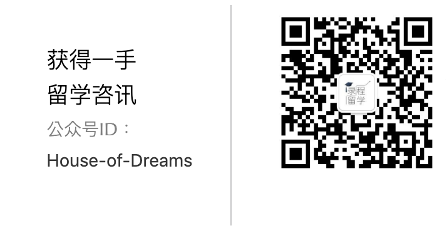
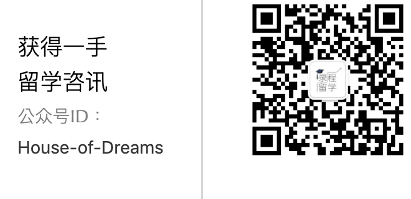
contact fix

diff --git a/contact.html b/contact.html
@@ -69,32 +69,37 @@
           <h2>联系我们</h2>
         </div>
 
-        <div class="row mt-5">
+        <div class="row mt-3">
 
-          <div class="col-lg-4">
+          <div class="col-lg-6 col-md-12 col-sm-12">
             <div class="info">
-              <div class="address">
+              <div class="wechat">
                 <i class="icofont-wechat"></i>
                 <h4>微信账号:</h4>
-                <p>House-of-Dreams</p>
+                <img src="assets/img/journals/wechat.png" alt="wechat account">
               </div>
-
+            </div>
+          </div>
+          
+          <div class="col-lg-6 col-md-12 col-sm-12">
+            <div class="info">
+              <div class="wechat-blog">
+                <i class="icofont-google-talk"></i>
+                <h4>微信公众号:</h4>
+                <div class="contact-img-wrapper">
+                  <img src="assets/img/wechatblog.png" alt="wechat account">
+                </div>
+              </div>
               <div class="email">
                 <i class="icofont-envelope"></i>
                 <h4>邮箱:</h4>
                 <p>luchengliuxue@outlook.com</p>
               </div>
-
-              <div class="phone">
-                <i class="icofont-google-talk"></i>
-                <h4>微信公众号:</h4>
-                <p>录程留学</p>
-              </div>
             </div>
-
           </div>
 
-          <div class="col-lg-8 mt-5 mt-lg-0">
+
+          <!-- <div class="col-lg-8 mt-5 mt-lg-0">
 
             <form action="forms/contact.php" method="post" role="form" class="php-email-form">
               <div class="form-row">
@@ -123,30 +128,8 @@
               <div class="text-center"><button type="submit">发送信息</button></div>
             </form>
 
-          </div>
+          </div> -->
 
-        </div>
-
-        <div class="row">
-          <div class="col-lg-6">
-            <div class="info">
-              <div class="phone">
-                <i class="icofont-multimedia"></i>
-                <h4>微信公众号图片:</h4>
-                <img src="assets/img/wechatblog.png" alt="wechat account">
-              </div>
-            </div>
-          </div>
-
-          <div class="col-lg-6">
-            <div class="info">
-              <div class="phone">
-                <i class="icofont-people"></i>
-                <h4>微信客服小助手:</h4>
-                <img src="assets/img/journals/wechat.png" alt="wechat account">
-              </div>
-            </div>
-          </div>
         </div>
 
       </div>

diff --git a/assets/css/style.css b/assets/css/style.css
@@ -2066,6 +2066,18 @@ blockquote {
   .contact-contact {
     margin-bottom: 30px;
   }
+
+  #contact .info .wechat-blog .contact-img-wrapper{
+    padding-left: 10%;
+  }
+
+  #contact .info .wechat-blog img{
+    width: 90%;
+  }
+
+  #contact .info .wechat img{
+    width: 80%;
+  }
   /* Footer */
   #footer .socials-media ul li {
     margin-right: 0;
